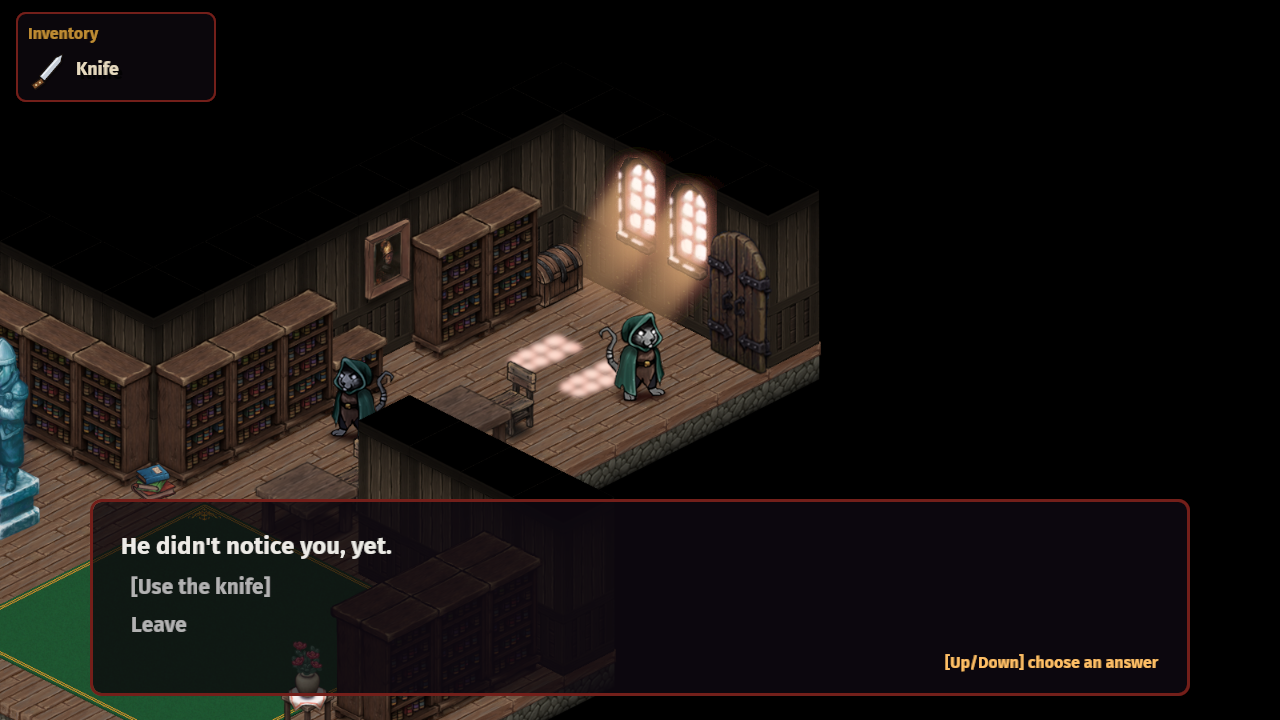
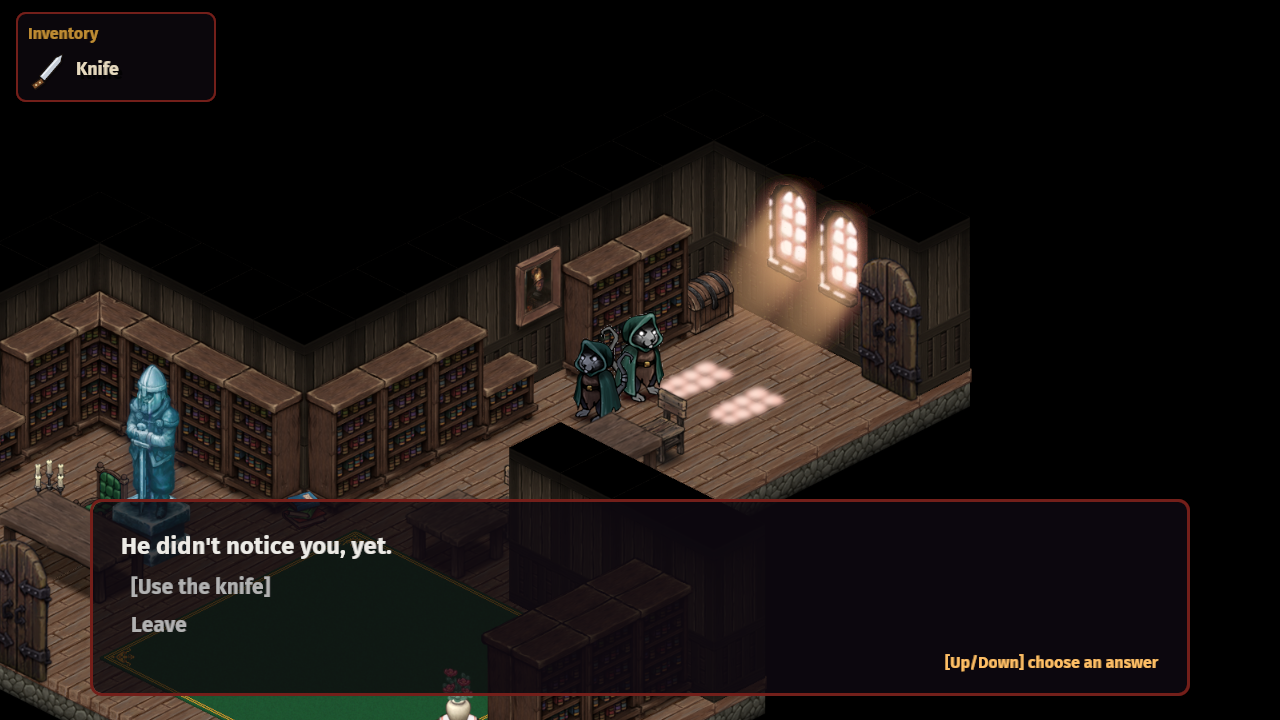
Sneak up on the librarian in the highlight screenshots and keep only six

Changed region(s): [[0.0, 0.1833, 0.7812, 1.0], [0.2188, 0.8861, 0.5938, 1.0], [0.2188, 0.7639, 0.25, 0.7944]]

diff --git a/src/dev/scenario.rs b/src/dev/scenario.rs
@@ -13,6 +13,7 @@
 //! - wait: 2.0                      # seconds
 //! - enter_room: [library, hall]    # room, and the room the player comes from
 //! - teleport: [6.0, 2.0]           # map cell of the player's feet
+//! - sneak_behind_librarian: 60.0  # distance behind his back in pixels
 //! - give: BurningCandle
 //! - take: BurningCandle
 //! - set: { carpet: RolledIn, circle_candle: true }
@@ -48,6 +49,7 @@ use crate::{
         iso::{FEET_OFFSET, character_translation, world_to_cell},
         progress::{Carpet, Item, Progress, RitualCircle},
         rooms::{EnterRoom, Room},
+        world::LibrarianPatrol,
         script::Node,
     },
 };
@@ -60,6 +62,7 @@ enum Step {
     Wait(f32),
     EnterRoom(String, String),
     Teleport(f32, f32),
+    SneakBehindLibrarian(f32),
     Give(Item),
     Take(Item),
     Set(ProgressChanges),
@@ -212,6 +215,7 @@ fn play_scenario(
     mut screen: Option<ResMut<ScreenFx>>,
     mut progress: ResMut<Progress>,
     room: Res<Room>,
+    patrol: Res<LibrarianPatrol>,
     mut player: Query<&mut Transform, With<Player>>,
     mut enter: MessageWriter<EnterRoom>,
     mut dialogue: MessageWriter<StartDialogue>,
@@ -266,6 +270,13 @@ fn play_scenario(
             Step::Teleport(x, y) => {
                 for mut transform in &mut player {
                     transform.translation = character_translation(Vec2::new(x, y));
+                }
+                scenario.wait_until = now + 0.3;
+            }
+            Step::SneakBehindLibrarian(distance) => {
+                let cell = world_to_cell(patrol.behind(distance));
+                for mut transform in &mut player {
+                    transform.translation = character_translation(cell);
                 }
                 scenario.wait_until = now + 0.3;
             }

diff --git a/src/game/world.rs b/src/game/world.rs
@@ -109,7 +109,7 @@ struct Librarian {
 /// Where the librarian is on his patrol through the library. This is kept
 /// outside of the library, so he keeps walking while the player is elsewhere.
 #[derive(Resource, Default)]
-struct LibrarianPatrol {
+pub struct LibrarianPatrol {
     /// Patrol route in world coordinates of the library.
     route: Vec<Vec2>,
     /// Position of his feet.
@@ -120,6 +120,11 @@ struct LibrarianPatrol {
 }
 
 impl LibrarianPatrol {
+    /// Where somebody stands who is `distance` behind the librarian.
+    pub fn behind(&self, distance: f32) -> Vec2 {
+        self.position - self.facing * distance
+    }
+
     fn new(route: Vec<Vec2>) -> Self {
         Self {
             position: route.first().copied().unwrap_or_default(),

diff --git a/docs/pitch.md b/docs/pitch.md
@@ -26,9 +26,7 @@ Ulu is watching, and Ulu is a picky eater. At the end, the ritual is rated by ho
 | *Ulu calls in a dream* | *A knife in your pocket opens new options* |
 | ![Asking the magister for help](screenshots/03_magister.png) | ![The dining hall](screenshots/04_dining_hall.png) |
 | *Asking the magister for help* | *Exploring the cult manor* |
-| ![The dark ritual room](screenshots/05_ritual_room_dark.png) | ![The prepared ritual](screenshots/06_ritual_prepared.png) |
-| *The ritual room, lit only by your candle* | *The ritual is prepared* |
-| ![Summoning Ulu](screenshots/07_summoning.png) | ![The ending screen](screenshots/08_ending.png) |
+| ![Summoning Ulu](screenshots/05_summoning.png) | ![The ending screen](screenshots/06_ending.png) |
 | *Summoning Ulu* | *Ulu rates the ritual* |
 
 ## Fact Sheet
